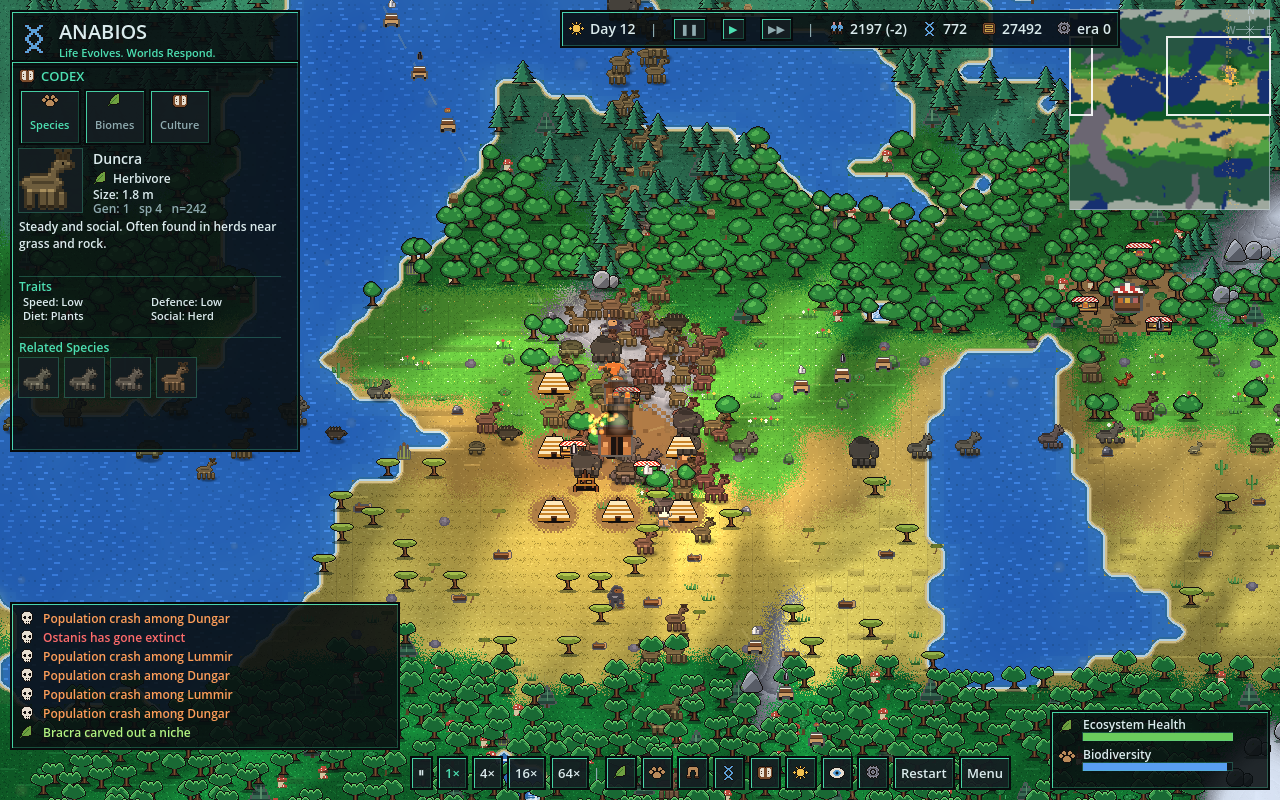
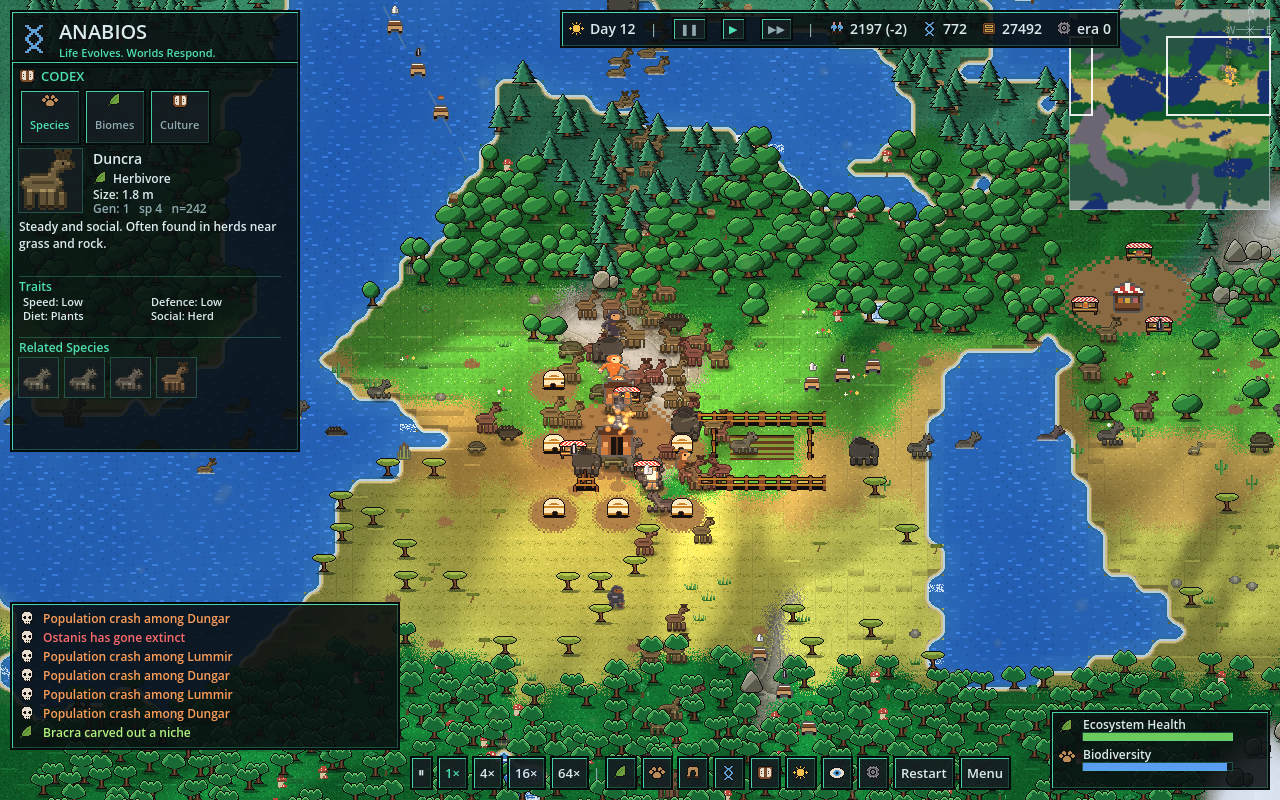
viewer: legacy scenery keeps only its reeds; resting herds hold their heads up
With the pixel-art ground on, the older colour-classified prop scatter
drew fallen logs across every savanna cell on top of the tile scatter's
acacias and tufts, and at 2x they read as planks; it now draws only its
shoreline reeds, which the tile scatter has no equivalent for. The
quadruped rest poses keep the head at its carried height (B nods with
eyes closed) so a resting deer reads as a deer, not a loaf; the death
ghosts draw that lying pose instead of the standing master turned on its
side. Savanna tiles move from ochre toward olive.

Claude-Session: https://claude.ai/code/session_019kbTtZKC2VJBPY6SALU64h

diff --git a/gallery/README.md b/gallery/README.md
@@ -45,7 +45,7 @@ pins an agent in the unit card.
 | scale-settlement-t891-village-4x.png | `settlement` t891 4× (default camera, `ANABIOS_INSPECT=1`) | A camp on packed-earth yards with paths to the hearth, tents spaced a hut-width apart, the crowd capped to one figure per 17 units at 4× (12 at 2×, staggered rows), a market square with awning stalls beside it, pixel-puff hearth smoke, the outcrop east of the camp as warm stone, the unit card. |
 | scale-settlement-t891-fortified-2x.png | `settlement` t891 2× (`ANABIOS_VILLAGE_ERA=2 ANABIOS_VILLAGE_FLAGS=123`) | The same camp forced into its fortified era: a log palisade hugging the huts, a gate with banners to the south, a watchtower, fenced fields outside the wall, the forest standing back from the clearing. |
 | scale-settlement-t3120-camp-4x.png | `settlement` t3120 4× | The same camp later: hearth smoke, herds at the square, codex species page. |
-| scale-settlement-t1020-codex-species-2x.png | `settlement` t1020 2× (`ANABIOS_CODEX_TAB=1`) | The settlement peninsula: flat lake water with block ripples, dithered biome borders, mixed oak silhouettes, the pixel-font HUD. |
+| scale-settlement-t1020-codex-species-2x.png | `settlement` t1020 2× (`ANABIOS_CODEX_TAB=1`) | The settlement peninsula: flat lake water with block ripples, dithered biome borders, mixed oak silhouettes, olive savanna, resting herds with their heads up, the HUD. |
 | scale-settlement-t1591-1x.png | `settlement` t1591 1× | The same world at 1×. |
 | scale-settlement-t691-overview.png | `settlement` t691, `ANABIOS_CAM_FIT=1` | Whole-world framing: the overview mip with the density dots. |
 | scale-settlement-t891-market-8x.png | `settlement` t891 8× at (1060, 298) | The market square up close: stalls, goods on the counters, carts. |
